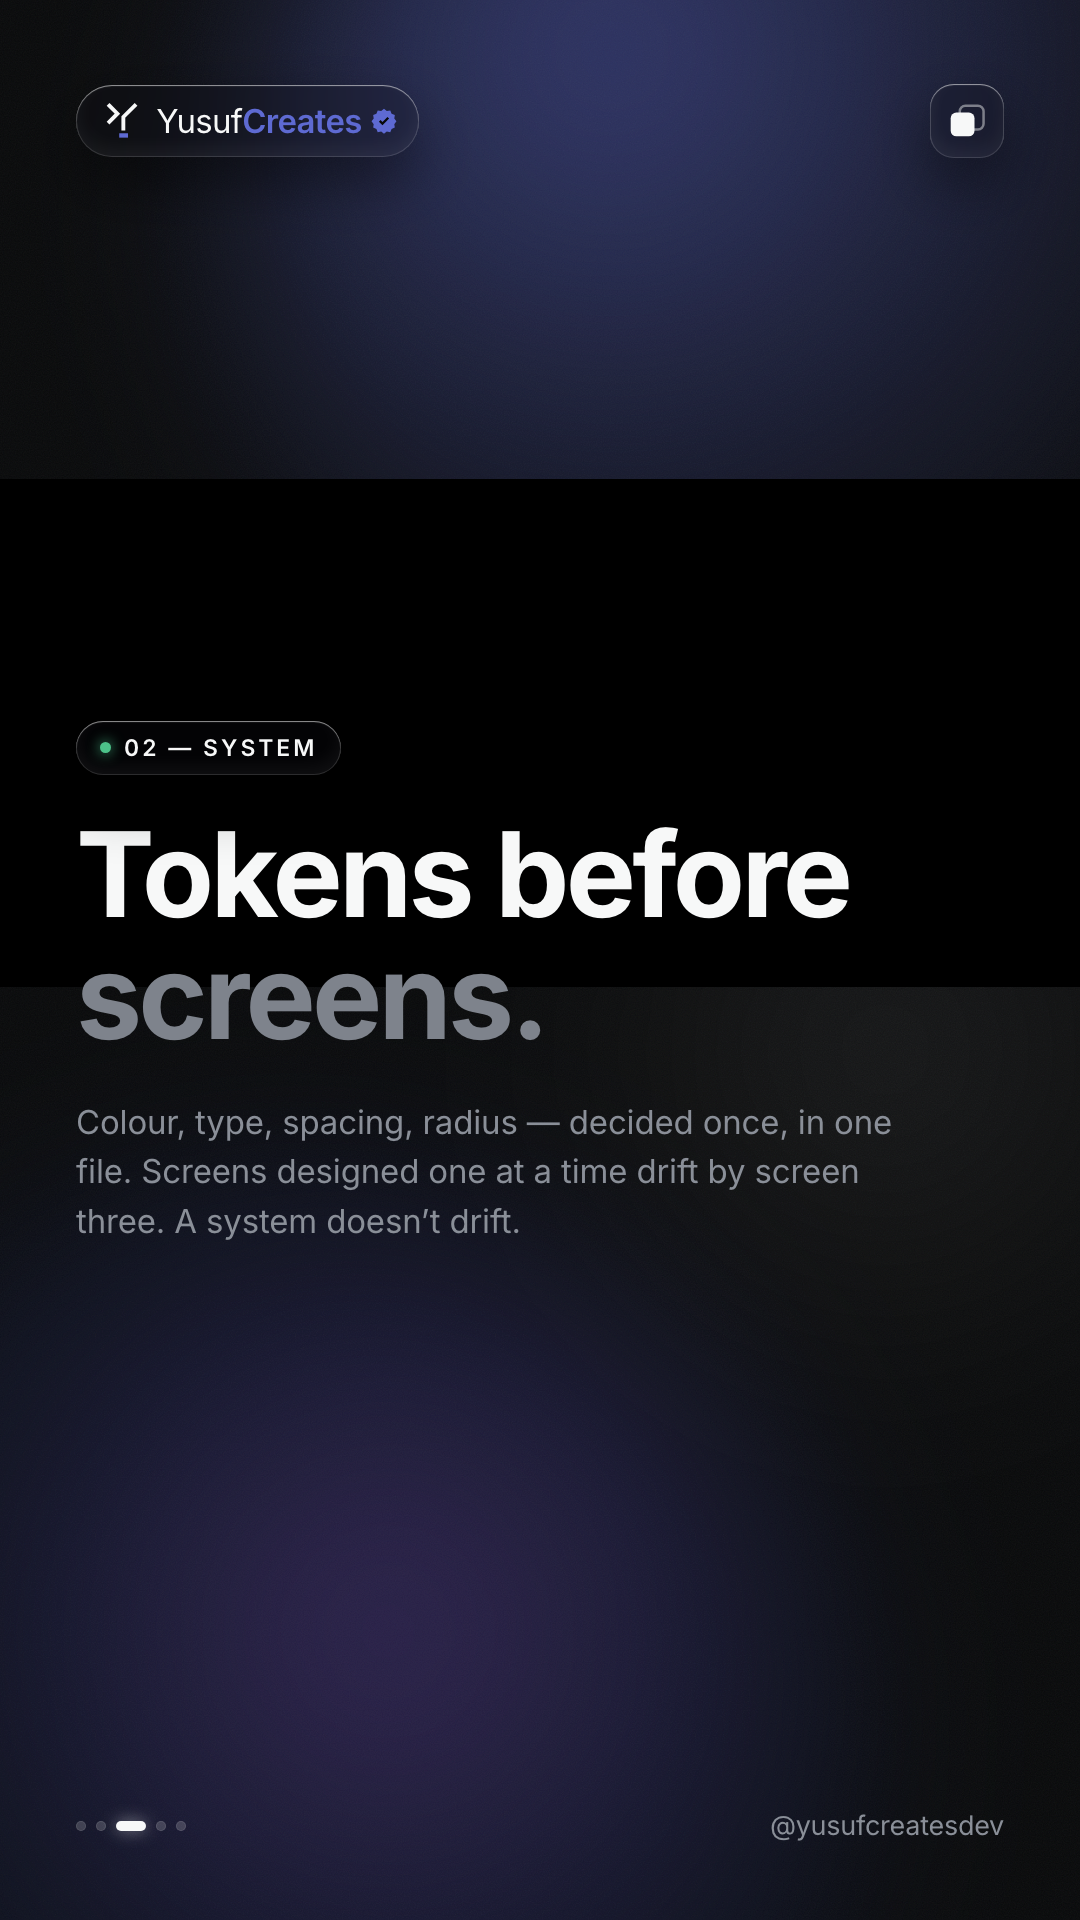
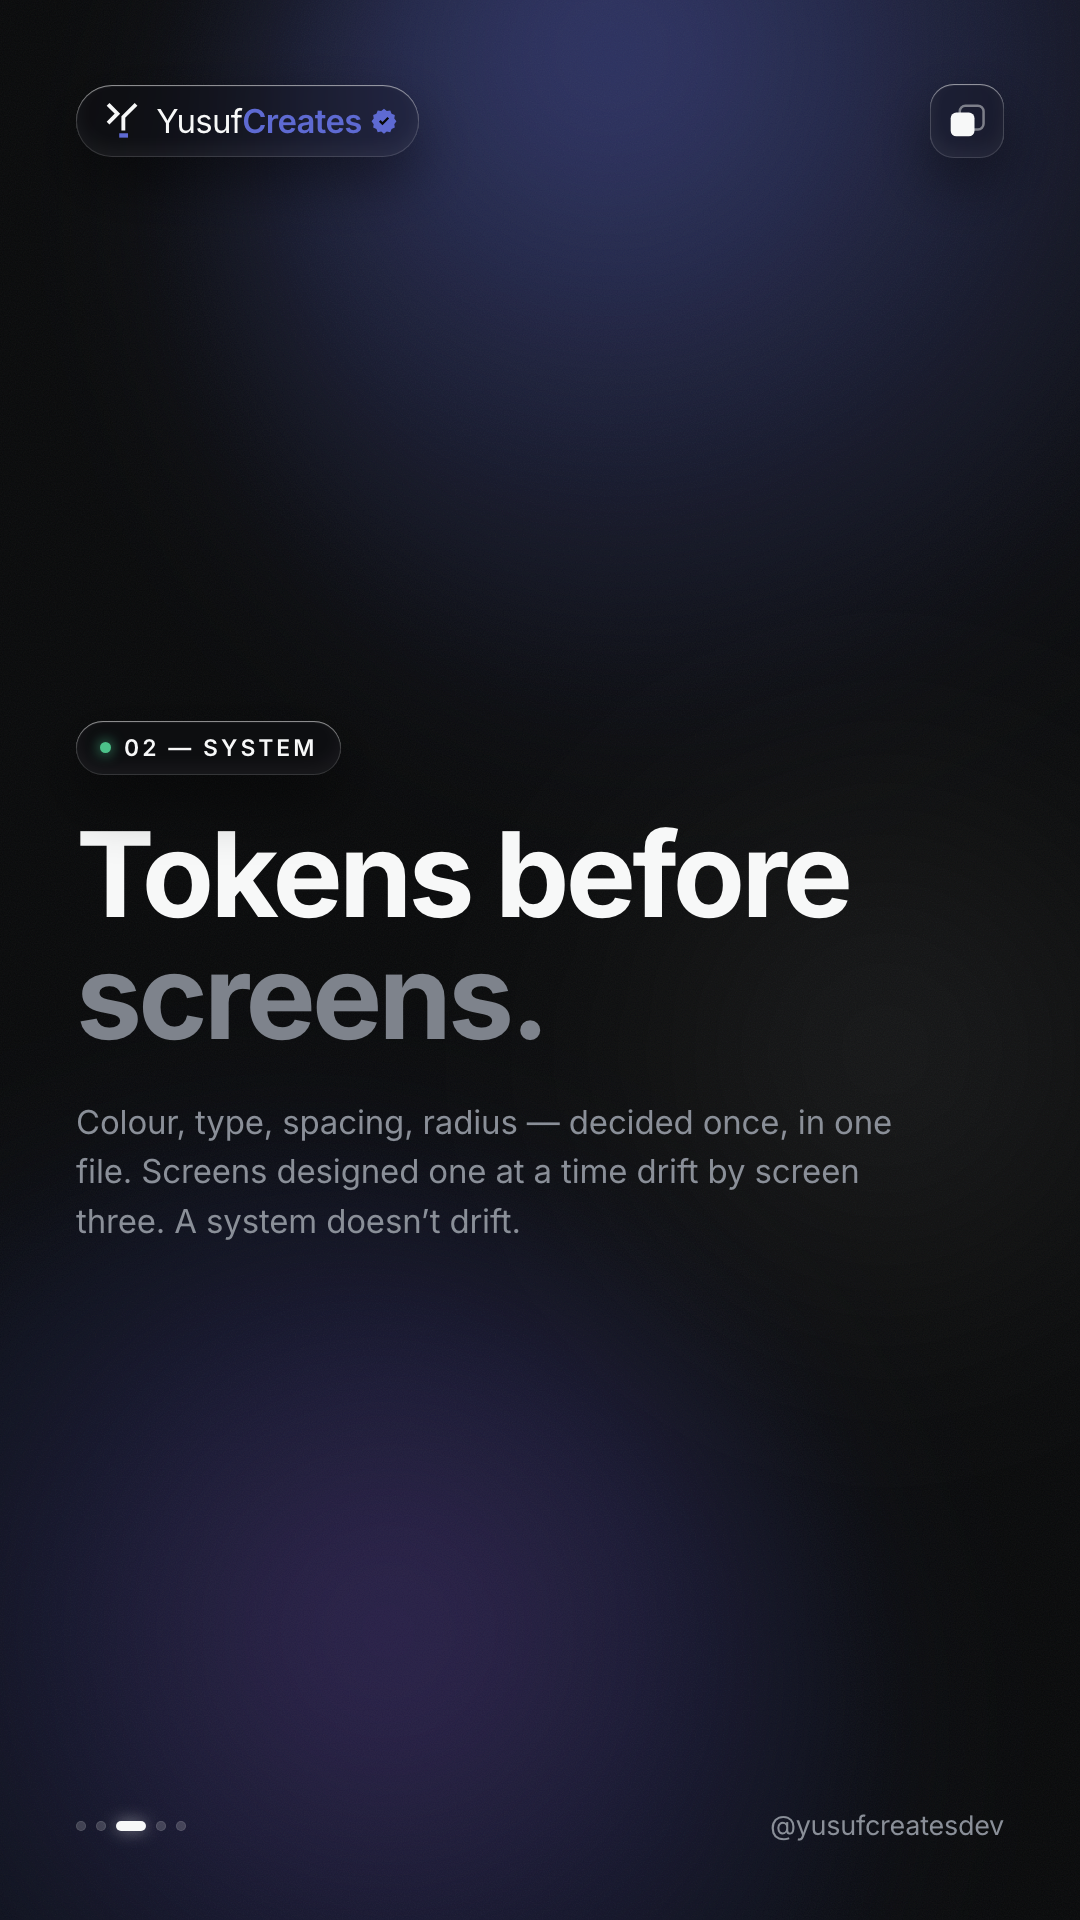
Four carousels on Claude Code and Cursor
The decks that were here taught design and sold the work. Nothing covered
the tools, which is the subject this audience actually searches for — and
the cheapest way to reach them, since it teaches rather than sells.

Adds:
  12-claude-code-context  CLAUDE.md, the @import, and the 200-line limit
  13-claude-code-setup    skills, subagents, hooks
  14-cursor-rules         .mdc vs .md, and the four activation modes
  15-ai-tools-honestly    what these tools don't fix

Every path, frontmatter field and hook event name is checked against
official docs rather than recalled, and the README now says so — a wrong
path teaches people something broken, and this audience spots it. Prices,
model names and rate limits are left out on purpose: they go stale faster
than a published post can be edited.

Deck 15 is deliberately not promotional. An account that only praises its
own tooling reads as an ad; the honest version is what makes the other
three credible.

Posting order extended to eight weeks, each tools deck placed ahead of a
work or pricing post so the reach lands before the thing that sells.

Two unrelated slides re-render with different bytes — feTurbulence noise
is not deterministic between runs. Verified visually identical.

Changed region(s): [[0.2139, 0.25, 1.0, 0.375], [0.7028, 0.4688, 0.9472, 0.5312]]

diff --git a/YusufCreates Social Media/build/content.js b/YusufCreates Social Media/build/content.js
@@ -494,6 +494,172 @@ const carousels = [
       },
     ],
   },
+  // =====================================================================
+  // AI CODING TOOLS — Claude Code and Cursor.
+  //
+  // Every claim in this section is verified against official documentation,
+  // not recalled. File paths, frontmatter fields and hook event names are
+  // exact, because a wrong path is a post that teaches people something
+  // broken. Deliberately excluded: subscription prices, model names, rate
+  // limits and token costs — all of which change faster than a post can be
+  // edited, and none of which are checkable from this repo.
+  //
+  // Verified: docs.claude.com/en/docs/claude-code (memory, skills, subagents,
+  // hooks, permission modes) and cursor.com/docs/context/rules.
+  // =====================================================================
+
+  // 12. The context-file deck. The single highest-leverage habit, and the one
+  //     most people skip. Uses this repo’s own CLAUDE.md as the example.
+  {
+    slug: "12-claude-code-context",
+    title: "Stop re-explaining your codebase",
+    slides: [
+      {
+        eyebrow: "Claude Code",
+        headline: [["You re-explain", "primary"], ["your codebase", "primary"], ["every session.", "accent"]],
+        body: "There is one file that fixes this, and most people never create it.",
+        cta: "Swipe",
+      },
+      {
+        eyebrow: "The file",
+        headline: [["CLAUDE.md, at", "primary"], ["your repo root.", "muted"]],
+        body: "It loads automatically at the start of every session. Your stack, your conventions, the commands to run — written once instead of typed into the chat again on Monday.",
+      },
+      {
+        eyebrow: "The syntax",
+        headline: [["One line beats", "primary"], ["one more copy.", "muted"]],
+        body: "Write @AGENTS.md and it imports that file inline. My entire CLAUDE.md is that single line, so Claude Code and every other agent read the same instructions and can’t drift apart.",
+      },
+      {
+        eyebrow: "The mistake",
+        headline: [["Longer is not", "primary"], ["better.", "danger"]],
+        body: "Past roughly 200 lines, adherence drops — it’s competing for the same context the actual work needs. Keep it short. Scope the rest to file paths with .claude/rules/ so it loads only when relevant.",
+      },
+      {
+        eyebrow: "The habit",
+        headline: [["Correct it once.", "primary"], ["Not weekly.", "accent"]],
+        body: "When you catch yourself giving the same correction twice, that’s not a prompt — that’s a missing line in CLAUDE.md. Every repo I work in has one before I write any code.",
+        cta: "Follow for more",
+      },
+    ],
+  },
+
+  // 13. Skills, subagents and hooks. The three features that separate people
+  //     who use Claude Code from people who have configured it.
+  {
+    slug: "13-claude-code-setup",
+    title: "Three features you’re not using",
+    slides: [
+      {
+        eyebrow: "Claude Code",
+        headline: [["Three features", "primary"], ["you’re paying", "primary"], ["for, unused.", "accent"]],
+        body: "Not obscure flags. The difference between a chat window and a system that knows your project.",
+        cta: "Swipe",
+      },
+      {
+        eyebrow: "01 — Skills",
+        eyebrowColor: "#4cc38a",
+        headline: [["Your workflow,", "primary"], ["written down once.", "muted"]],
+        body: "A SKILL.md in .claude/skills/ becomes a command you can invoke by name. Your deploy checklist, your review standard — repeatable instead of remembered.",
+      },
+      {
+        eyebrow: "02 — Subagents",
+        eyebrowColor: "#4cc38a",
+        headline: [["Delegate the", "primary"], ["messy reading.", "muted"]],
+        body: "Files in .claude/agents/ can be given their own model and a restricted tool list. An auditor with read access only, whose thousand lines of searching never touch your main conversation.",
+      },
+      {
+        eyebrow: "03 — Hooks",
+        eyebrowColor: "#4cc38a",
+        headline: [["Rules the model", "primary"], ["cannot talk", "primary"], ["past.", "muted"]],
+        body: "Configured in settings.json, hooks fire on real events — PreToolUse, PostToolUse, SessionStart. A PreToolUse hook exiting with code 2 blocks the command outright. That’s enforcement, not instruction.",
+      },
+      {
+        eyebrow: "The shift",
+        headline: [["Configure it", "primary"], ["like a tool.", "accent"]],
+        body: "Prompting harder has a ceiling. Setup doesn’t — every one of these is a file you commit, so it works the same next week and for anyone else who clones the repo.",
+        cta: "Save this",
+      },
+    ],
+  },
+
+  // 14. Cursor rules. Paths and frontmatter fields verified against
+  //     cursor.com/docs/context/rules — the .md-is-ignored detail is the
+  //     genuinely useful part, since it fails silently.
+  {
+    slug: "14-cursor-rules",
+    title: "Cursor rules that actually load",
+    slides: [
+      {
+        eyebrow: "Cursor",
+        headline: [["Your Cursor", "primary"], ["rules are being", "primary"], ["ignored.", "danger"]],
+        body: "There’s a silent failure here that people spend weeks not noticing.",
+        cta: "Swipe",
+      },
+      {
+        eyebrow: "The trap",
+        headline: [[".md in that", "primary"], ["folder does", "primary"], ["nothing.", "danger"]],
+        body: "Project rules live in .cursor/rules and must be .mdc files. A plain .md sitting in there is skipped with no warning — so you assume it’s loaded and blame the model for ignoring you.",
+      },
+      {
+        eyebrow: "The frontmatter",
+        headline: [["Four ways a", "primary"], ["rule can load.", "muted"]],
+        rows: [
+          { k: "01", v: "alwaysApply — in every request" },
+          { k: "02", v: "globs — only for matching files" },
+          { k: "03", v: "description — Agent decides" },
+          { k: "04", v: "None of them — @-mention manually" },
+        ],
+      },
+      {
+        eyebrow: "The default",
+        headline: [["Not everything", "primary"], ["is always-on.", "muted"]],
+        body: "alwaysApply: true on every rule rebuilds the problem you were solving — a context window full of instructions that don’t apply. Scope with globs and let the rest load on demand.",
+      },
+      {
+        eyebrow: "Both tools",
+        headline: [["AGENTS.md is", "primary"], ["the common", "primary"], ["ground.", "accent"]],
+        body: "Cursor reads AGENTS.md at the project root, and Claude Code reaches it with a one-line import. Write your conventions once, and switching editors stops costing you your setup.",
+        cta: "Save this",
+      },
+    ],
+  },
+
+  // 15. The judgement deck. Honest about what these tools don’t do — the
+  //     angle that separates a working developer from an AI hype account.
+  {
+    slug: "15-ai-tools-honestly",
+    title: "What AI coding tools don’t fix",
+    slides: [
+      {
+        eyebrow: "Hard truths",
+        headline: [["AI writes the", "primary"], ["code. You still", "primary"], ["own it.", "accent"]],
+        body: "I build with these tools daily. Here’s the part the demos leave out.",
+        cta: "Swipe",
+      },
+      {
+        eyebrow: "Speed",
+        headline: [["Faster typing,", "primary"], ["same thinking.", "muted"]],
+        body: "The bottleneck was never how fast the code appeared. Deciding what to build, and what to leave out, is still the whole job — and it’s still yours.",
+      },
+      {
+        eyebrow: "Review",
+        headline: [["Plausible is not", "primary"], ["the same as", "primary"], ["correct.", "danger"]],
+        body: "Generated code reads well by construction, which is exactly what makes a wrong version dangerous. If you shipped it without understanding it, you can’t fix it at 2am when it breaks.",
+      },
+      {
+        eyebrow: "Taste",
+        headline: [["It will not save", "primary"], ["you from a bad", "primary"], ["decision.", "muted"]],
+        body: "Ask for a worse architecture and you’ll get one, built quickly and consistently. These tools amplify judgement in both directions.",
+      },
+      {
+        eyebrow: "The upside",
+        headline: [["Used well, it’s", "primary"], ["a real edge.", "accent"]],
+        body: "It’s why one person can ship accounts, payments, admin and native apps properly. Not because the work got smaller — because none of it starts from a blank file now.",
+        cta: "See what I’ve shipped",
+      },
+    ],
+  },
 ];
 
 module.exports = { carousels, HANDLE };

diff --git a/YusufCreates Social Media/CAPTIONS.md b/YusufCreates Social Media/CAPTIONS.md
@@ -1,6 +1,6 @@
 # Captions
 
-Handle: **@yusufcreatesdev** · 11 carousels · 5 slides each · 1080×1920
+Handle: **@yusufcreatesdev** · 15 carousels · 5 slides each · 1080×1920
 
 Instagram truncates around 125 characters, so the first line of each caption is
 written to stand alone before the "more" cut.
@@ -318,24 +318,160 @@ written to stand alone before the "more" cut.
 
 ---
 
+## 12. `12-claude-code-context`
+
+> You re-explain your codebase to Claude Code every session. There's one file
+> that fixes it, and most people never create it.
+>
+> THE FILE — CLAUDE.md at your repo root. It loads automatically at the start of
+> every session: your stack, your conventions, the commands to run. Written
+> once, instead of typed into the chat again on Monday.
+>
+> THE SYNTAX — `@AGENTS.md` imports that file inline. My entire CLAUDE.md is
+> that single line, so Claude Code and every other agent read the same
+> instructions and can't drift apart.
+>
+> THE MISTAKE — longer is not better. Past roughly 200 lines adherence drops,
+> because it's competing for the same context the actual work needs. Keep it
+> short and scope the rest to file paths with `.claude/rules/`.
+>
+> The habit that matters: when you catch yourself giving the same correction
+> twice, that's not a prompt — that's a missing line in CLAUDE.md.
+>
+> What's in yours?
+
+```
+#claudecode #aicoding #developertools #buildinpublic #softwareengineer
+#codingtips #devworkflow #aitools #programming #webdev #devcommunity
+#codingproductivity #anthropic #fullstackdeveloper #devtools
+```
+
+---
+
+## 13. `13-claude-code-setup`
+
+> Three Claude Code features you're paying for and probably not using. Not
+> obscure flags — the difference between a chat window and a system that knows
+> your project.
+>
+> 01 — SKILLS. A `SKILL.md` in `.claude/skills/` becomes a command you invoke by
+> name. Your deploy checklist, your review standard: repeatable instead of
+> remembered.
+>
+> 02 — SUBAGENTS. Files in `.claude/agents/` can be given their own model and a
+> restricted tool list. An auditor with read access only, whose thousand lines
+> of searching never touch your main conversation.
+>
+> 03 — HOOKS. Configured in `settings.json`, they fire on real events —
+> PreToolUse, PostToolUse, SessionStart. A PreToolUse hook exiting with code 2
+> blocks the command outright. That's enforcement, not instruction.
+>
+> Prompting harder has a ceiling. Setup doesn't — every one of these is a file
+> you commit, so it works the same next week and for anyone else who clones the
+> repo.
+>
+> Save this for your next project setup.
+
+```
+#claudecode #aiagents #developerproductivity #devops #codingworkflow
+#automation #softwaredevelopment #aicoding #terminal #cli #buildinpublic
+#engineeringculture #devtools #programmerlife #techtips
+```
+
+---
+
+## 14. `14-cursor-rules`
+
+> Your Cursor rules might be silently ignored. There's a failure here people
+> spend weeks not noticing.
+>
+> THE TRAP — project rules live in `.cursor/rules` and must be `.mdc` files. A
+> plain `.md` sitting in that folder is skipped with no warning. So you assume
+> it loaded, and blame the model for ignoring you.
+>
+> FOUR WAYS A RULE LOADS —
+> → `alwaysApply: true` — in every request
+> → `globs` — only for matching files
+> → `description` — the Agent decides when it's relevant
+> → none of them — you `@`-mention it manually
+>
+> THE DEFAULT TRAP — `alwaysApply: true` on every rule rebuilds the problem you
+> were solving: a context window full of instructions that don't apply. Scope
+> with globs, let the rest load on demand.
+>
+> BOTH TOOLS — Cursor reads AGENTS.md at the project root, and Claude Code
+> reaches it with a one-line import. Write your conventions once and switching
+> editors stops costing you your setup.
+>
+> Which editor are you in right now?
+
+```
+#cursor #cursorai #aicoding #developertools #vibecoding #codeeditor
+#programming #webdevelopment #devtips #softwareengineer #aitools
+#codingsetup #buildinpublic #frontenddeveloper #productivity
+```
+
+---
+
+## 15. `15-ai-tools-honestly`
+
+> AI writes the code. You still own it. I build with these tools daily — here's
+> the part the demos leave out.
+>
+> SPEED — faster typing, same thinking. The bottleneck was never how fast code
+> appeared on screen. Deciding what to build, and what to leave out, is still
+> the whole job.
+>
+> REVIEW — plausible is not the same as correct. Generated code reads well by
+> construction, which is exactly what makes a wrong version dangerous. If you
+> shipped it without understanding it, you can't fix it at 2am when it breaks.
+>
+> TASTE — it will not save you from a bad decision. Ask for a worse
+> architecture and you'll get one, built quickly and consistently. These tools
+> amplify judgement in both directions.
+>
+> THE UPSIDE — used well, it's a real edge. It's why one person can ship
+> accounts, payments, admin and native apps properly. Not because the work got
+> smaller, but because none of it starts from a blank file now.
+>
+> Agree or disagree?
+
+```
+#aicoding #softwareengineering #devlife #codereview #buildinpublic
+#programming #techopinion #developercommunity #aitools #engineering
+#codequality #indiehacker #softwaredeveloper #webdev #craftsmanship
+```
+
+---
+
 ## Posting notes
 
-**Suggested six-week order.** Craft and process build the audience; work and
+**Suggested eight-week order.** Craft and process build the audience; work and
 pricing convert it. Don't lead with pricing to a cold following.
+
+The AI-tools decks (12–15) are the reach engine — they're the most searched and
+shared subject here, and they cost nothing to publish because they teach rather
+than sell. Each one is placed just before something that does sell, so the
+audience they pull in arrives ahead of a work or pricing post rather than after
+it.
 
 | Week | Deck |
 |---|---|
 | 1 | `01-why-it-looks-cheap` |
 | 1 | `10-five-mistakes` |
+| 2 | `12-claude-code-context` |
 | 2 | `03-how-i-work` |
-| 2 | `04-work-docutrackr-family` |
-| 3 | `02-the-stack` |
-| 3 | `11-accessibility` |
-| 4 | `05-work-docutrackr-business` |
-| 4 | `08-pricing-flat` |
-| 5 | `06-work-shipped` |
-| 5 | `07-pricing` |
-| 6 | `09-promo-slots` |
+| 3 | `04-work-docutrackr-family` |
+| 3 | `14-cursor-rules` |
+| 4 | `02-the-stack` |
+| 4 | `11-accessibility` |
+| 5 | `13-claude-code-setup` |
+| 5 | `05-work-docutrackr-business` |
+| 6 | `15-ai-tools-honestly` |
+| 6 | `08-pricing-flat` |
+| 7 | `06-work-shipped` |
+| 7 | `07-pricing` |
+| 8 | `09-promo-slots` |
 
 - **Slide 01 is the cover** — the feed thumbnail, and the only slide most people
   will ever see.

diff --git a/YusufCreates Social Media/README.md b/YusufCreates Social Media/README.md
@@ -24,7 +24,7 @@ From the repo root:
 node "YusufCreates Social Media/build/render.js"
 ```
 
-Writes 55 slides across 11 carousels. The script fails loudly rather than
+Writes 75 slides across 15 carousels. The script fails loudly rather than
 producing wrong output: it aborts if the embedded font doesn't load, and warns
 per slide if content overflows the safe area.
 
@@ -71,3 +71,19 @@ honour or walk back.
 
 No deck claims traffic, revenue, or client counts — none of that is recorded in
 the repo, and inventing it on a public post is a liability.
+
+## ⚠ Tool claims must be verified, not recalled
+
+Decks 12–15 teach Claude Code and Cursor. Every file path, frontmatter field and
+hook event name in them was checked against official documentation at the time
+of writing — `docs.claude.com/en/docs/claude-code` and
+`cursor.com/docs/context/rules`. A wrong path is worse than no post: it teaches
+people something broken and it's the kind of error the audience for these decks
+will spot immediately.
+
+Deliberately excluded, and worth keeping excluded: subscription prices, model
+names, rate limits and token costs. These change faster than a published post
+can be edited and none of them are checkable from this repo.
+
+**These are the decks most likely to go stale.** Both tools ship constantly. Re-read
+the docs before re-posting one, not just before writing a new one.
